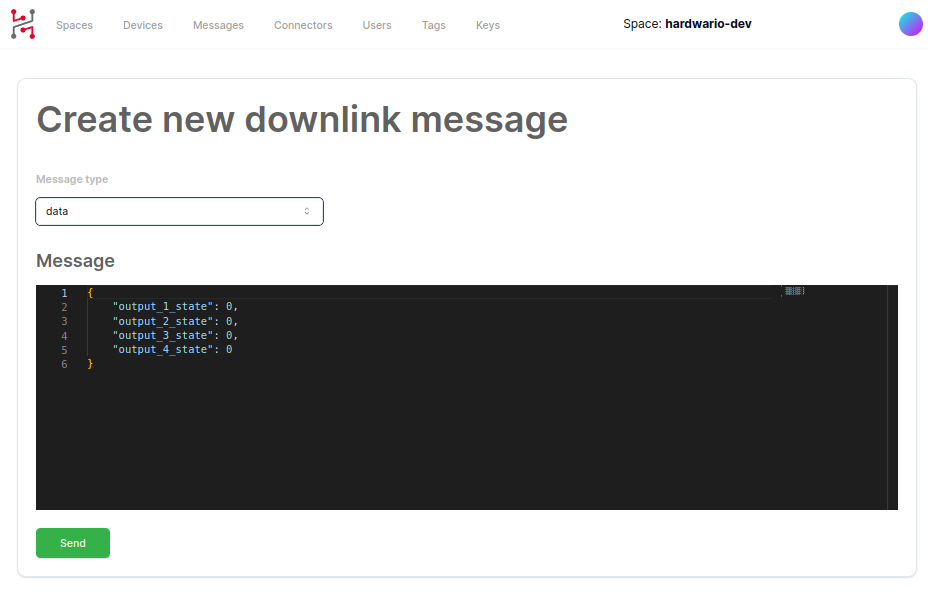
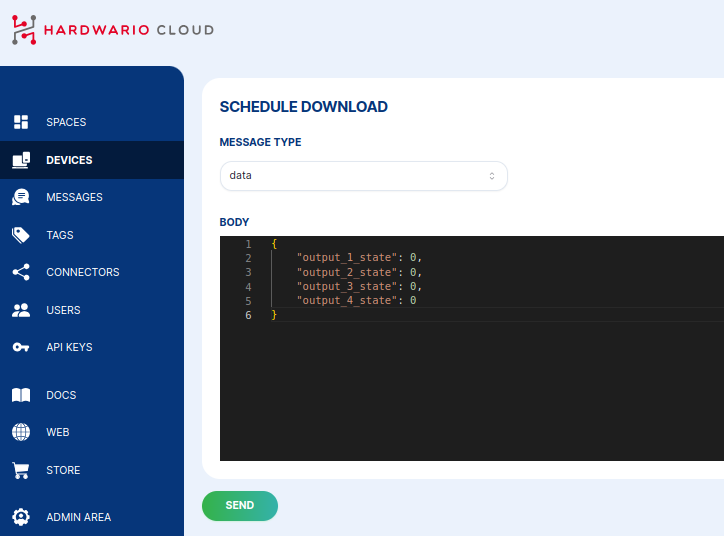
Cloud: Update docs, screenshots, FOTA

diff --git a/sidebars-cloud.js b/sidebars-cloud.js
@@ -11,7 +11,10 @@ const sidebars = {
         id: 'cloud-v2/index',
       },
       collapsed: true,
-      items: ['cloud-v2/connectors', 'cloud-v2/downlink', 'cloud-v2/api']
+      items: [
+        'cloud-v2/devices', 'cloud-v2/connectors', 'cloud-v2/downlink',
+        'cloud-v2/fota', 'cloud-v2/api'
+      ]
     }
   ],
 };

diff --git a/cloud/cloud-v2/connectors.md b/cloud/cloud-v2/connectors.md
@@ -6,7 +6,7 @@ import Image from '@theme/IdealImage';
 
 # Connectors
 
-With a connector, you can create a webhook on the messages from the device.
+With a connector, you can create a webhook on the messages from the device. Device with the **same tag as the connector** will trigger single, or multiple connectors.
 
 You can set which type of uplink messages the webhook will be called:
 - data
@@ -15,7 +15,17 @@ You can set which type of uplink messages the webhook will be called:
 - stats
 - codec
 
+Tags are important. They connect a device or multiple devices to the connector.
+
 ![](connector-new.png)
+
+You can create a function, that will transform every message. It can act as a translator between CHESTER JSON data representation and your integration service.
+
+![](connector-transformation.png)
+
+In the connector preview tab, you can select one of the latest messages and in real-time see, how the transformation works.
+
+![](connector-preview.png)
 
 ## JavaScript
 
@@ -27,56 +37,84 @@ function main(job) {
     "url": "https://best.app.ever/new-message",
     "method": "POST",
     "body": JSON.stringify(job),
-    "headers": { "Content-Type": "application/json" }
+    "header": { "Content-Type": "application/json" }
   }
 }
 ```
+
+If your function will return `null` object. The callback is not executed. This can be useful if you would like to have some notifications with third-party services that will send push-notification, e-mail or sms only when some parameter from the CHESTER device is above a certain threshold. You can use services like [**Twilio**](https://www.twilio.com/) or [**Sendgrid**](https://sendgrid.com/).
 
 ## Job object
 
 Here is the structure of the `job` object.
 
+The object `body.message.body` contains the JSON from the CHESTER with its data.
+
 ```json
 {
+  "url": "https://pipedream.net/",
+  "method": "POST",
+  "body": {
     "attempt": 0,
     "message": {
-        "id": "018b85a4-673f-7fc7-9742-8c73f8a8e7c8",
-        "body": "{\"accelerometer\":{\"accel_x\":0.61,\"accel_y\":9.72,\"accel_z\":0.07,\"orientation\":3},\"battery\":{\"current_load\":26,\"voltage_load\":2.65,\"voltage_rest\":2.8},\"frame\":{\"protocol\":3,\"sequence\":3,\"timestamp\":1698754222},\"network\":{\"parameter\":{\"band\":20,\"cid\":658209,\"earfcn\":6447,\"ecl\":0,\"eest\":7,\"plmn\":23003,\"rsrp\":-91,\"rsrq\":-5,\"snr\":10}},\"state\":{\"uptime\":86461},\"thermometer\":{\"temperature\":21.37}}",
-        "created_time": "2023-10-31T12:10:25.983Z",
-        "type": "data",
-        "link_type": "up"
+      "id": "018eebbe-678d-7c60-b4ef-d141f48378e8",
+      "body": {
+        "accelerometer": {
+          "accel_x": 0.22,
+          "accel_y": 9.8,
+          "accel_z": 0.15,
+          "orientation": 3
+        },
+        "battery": {
+          "current_load": 25,
+          "voltage_load": 2.5,
+          "voltage_rest": 2.64
+        },
+        "frame": {
+          "protocol": 3,
+          "sequence": 69,
+          "timestamp": 1713352118
+        },
+        "network": {
+          "parameter": {
+            "band": 20,
+            "cid": 658209,
+            "earfcn": 6447,
+            "ecl": 0,
+            "eest": 7,
+            "plmn": 23003,
+            "rsrp": -95,
+            "rsrq": -6,
+            "snr": 2
+          }
+        },
+        "thermometer": {
+          "temperature": 22.43
+        }
+      },
+      "created_at": "2024-04-17T11:08:27.917Z",
+      "type": "data",
+      "direction": "up"
     },
     "device": {
-        "id": "018a4535-fd39-7293-bd36-52df3e62e962",
-        "space_id": "018a44f6-27e3-7293-b7d2-c39d7b0d7cd2",
-        "serial_number": "2159020389",
-        "session_id": "",
-        "created_time": "2023-08-30T06:51:20.761Z"
+      "id": "018a1535-fd39-7293-bd36-52df3e62e962",
+      "space_id": "018a14f6-27e3-7293-b7d2-c39d7b0d7cd2",
+      "serial_number": "2159020389",
+      "session_id": 1712549305,
+      "created_at": "2023-08-30T06:51:20.761Z",
+      "label": {}
     },
     "connector": {
-        "id": "018aef7c-c122-7893-a07c-70dbc6ebbddc",
-        "timeout": 0
+      "id": "018aef7c-c122-7893-a07c-70dbc6ebbddc",
+      "timeout": 0
     }
+  },
+  "header": {
+    "Content-Type": "application/json"
+  }
 }
 ```
 
-### Body as a JSON
-
-If you would like to have `message.body` as a JSON object instead of string, use this connector script:
-
-```js
-function main(job) {
-			return {
-				"url": "https://best.app.ever/new-message",
-				"method" : "POST",
-				"body" : JSON.stringify({
-					"message": JSON.parse(job.message.body),
-					"device": job.device
-				}),
-				"headers" : { "Content-Type" : "application/json" }
-			}
-		}
-```
 
 ### Callback Debugging
 
@@ -84,5 +122,5 @@ For testing purposes, you can use one of the free services like [**requestinspec
 
 Another option is to use services that route public address to your localhost. For example [**ngrok.com**](https://ngrok.com/) where you can create also the fixed address for free.
 
-Also [**tailscale.com**](https://tailscale.com/) is an awesome free service to put all your devices to one private network even behind CG-NAT,
-and one of the functionality is also creatung a tunnel with `serve` or `funnel` commands.
+Also, [**tailscale.com**](https://tailscale.com/) is an awesome free service to put all your devices to one private network even behind CG-NAT,
+and one of the functionalities is also creating a tunnel with `serve` or `funnel` commands.

diff --git a/cloud/cloud-v2/api.md b/cloud/cloud-v2/api.md
@@ -20,75 +20,67 @@ This example logs in to the Cloud v2 production portal (`api.prod.hardwario.clou
 
 
 ```python
+#!/usr/bin/env python3
+
 import requests
 
-email='...'
-password='...'
-space_name = '...'
+email = ''
+password = ''
+space_id = ''
 
 base_url = 'https://api.prod.hardwario.cloud'
 
 # Login
-resp = requests.post(base_url + '/v2/auth/login', json={ "email": email, "password": password})
-
-print(resp)
+resp = requests.post(base_url + '/v2/auth/login',
+                     json={"email": email, "password": password})
 
 if resp.status_code != 200:
-    raise Exception('Login failed: {}'.format(resp.text))
+    raise Exception('Login failed')
 
 authorization = 'Bearer ' + resp.json()['access_token']
 
-# Get space id
-resp = requests.get(base_url + '/v2/spaces', headers={ 'Authorization': authorization })
+print(authorization)
 
-for s in resp.json():
-    print(s['name'], s['type'], s['id'])
-    if s['name'] == space_name:
-        space_id = s['id']
-        break
+resp = requests.get(f'{base_url}/v2/space/{space_id}/devices',
+                    headers={'Authorization': authorization})
 
-resp = requests.post(base_url + '/v2/auth/space', json={ 'space_id': space_id },  headers={ 'Authorization': authorization })
+print(resp.status_code)
+
 if resp.status_code != 200:
-    raise Exception('Auth to space failed')
-
-authorization_personal_space = 'Bearer ' + resp.json()['access_token']
-
-# Get list of devices
-resp = requests.get(base_url + '/v2/devices', headers={ 'Authorization': authorization_personal_space })
-
-if resp.status_code != 201:
-    raise Exception('Device get failed:' + resp.text)
+    raise Exception('Device read failed:' + resp.text)
 
 print(resp.json())
 ```
 
 ### Create devices
 
-
 ```python
 
 # Copy the log-in from the first example code
 
 # Create device from list in space
+
 devices = [
     {
         "name": "dev-001",
         "serial_number": "2112345678",
-        "token": "hie1koh5toh0ga6iedoJ1hahshohmoh5"
+        "token": "hie1koh5toh0ga6iedoJ1hahshohmoh7"
     },
     {
         "name": "dev-002",
         "serial_number": "2112345679",
-        "token": "hie1koh5toh0ga6iedoJ1hahshohmoha",
-        "tags": [ {"id": "5f6b5b4e-3b4c-4c4c-8c8c-8c8c8c8c8c8c"} ],
+        "token": "hie1koh5toh0ga6iedoJ1hahshohmoh7",
+        "tags": [{"id": "5f6b5b4e-3b4c-4c4c-8c8c-8c8c8c8c8c8c"}],
         "external_id": "1234567890"
     }
 ]
 
 for device in devices:
-    resp = requests.post(base_url + '/v2/devices', json=device, headers={ 'Authorization': authorization_personal_space })
+    resp = requests.post(f'{base_url}/v2/space/{space_id}/devices', json=device,
+                         headers={'Authorization': authorization})
 
     if resp.status_code != 201:
         raise Exception('Device create failed:' + resp.text)
+
     print(resp.json())
 ```

diff --git a/cloud/cloud-v2/fota.md b/cloud/cloud-v2/fota.md
@@ -1,0 +1,29 @@
+---
+slug: fota
+title: FOTA
+---
+import Image from '@theme/IdealImage';
+
+# Firmware Over The Air updates (FOTA)
+
+You can also update firmware in your CHESTER.
+
+First you need to build and deploy a firmware to our cloud using `hardwario chester app fw upload` command. Please see the [**CHESTER Deploy**](../../chester/firmware-sdk/build-and-deploy#deploy) and [**Firmware Upload**](../../chester/firmware-sdk/build-and-deploy#firmware-upload) chapters.
+
+After you obtain the unique firmware ID like af637aa1c5b842c18f9b10b070cb0292 (newer ones have hyphens), you can click in the device's detail in the **Firmware** tab on the **+ DOWNLOAD FIRMWARE** button and paste the unique value there.
+
+![](fota-download-firmware.png)
+
+Once the CHESTER boots, send or polls for cloud data, it will start updating.
+
+The update takes around 30 minutes. During this time, the download to the CHESTER will run in the background, so the device will still function normally, measure and send the data.
+
+![](fota-list.png)
+
+In the detail, you can see all the steps during the update.
+
+![](fota-timeline.png)
+
+After the new firmware is downloaded, it is swapped between external SPI FLASH and internal MCU FLASH. This takes up to two minutes and the status LED on the CHESTER will blink with green/yellow/red colors. After swapping the CHESTER connects to the HARDWARIO Cloud with the new firmware. This new firmware is validated as _healthy_ and it is confirmed to the cloud that the update finished sucessfully.
+
+The MCUBoot bootloader has a protection, that in case the new firmware don't works correctly, it is swapped to the old version and device connects with the previous old firmware.

diff --git a/cloud/cloud-v2/downlink.md b/cloud/cloud-v2/downlink.md
@@ -10,19 +10,29 @@ In the web interface or over API you can send downlink messages:
 
 - Data
 - Config
-- Shell Commands (in the future)
+- Shell Commands
 
-If you would like to send config or data from the web interface. Go to the device messages, in the top right corner click on **Create new downlink message**.
+If you would like to send config or data from the web interface. Go to the device messages, in the top right corner click on **+&nbsp;SCHEDULE DOWNLINK**.
 
 ## Data
 
 You can send JSON commands that the device will decode and your code will receive structure with a filled data.
 
+![](downlink-data.png)
+
 ## Config
 
 You can configure the device the same way as you configure it over BLE or J-Link RTT. Just send for example `app config interval-report 600` command and CHESTER will apply the new configuration when it sends an uplink packet or polls for the new data.
 
-![](downlink-data.png)
+## Shell Commands
+
+In the messages or device detail, you can click on the **shell** icon and the shell console will open.
+
+![](shell-icon.png)
+
+In the console, you can enter **single or multiple commands** that will be executed next time **CHESTER** will boot, send data or poll to the cloud. After that you will receive the **response of every message** and the response appears in the console. You don't need to keep the console window open. You can schedule commands and return later or the next day to see the results.
+
+![](shell-console.png)
 
 ## API Examples
 

diff --git a/cloud/cloud-v2/devices.md b/cloud/cloud-v2/devices.md
@@ -1,0 +1,35 @@
+---
+slug: devices
+title: Devices
+---
+import Image from '@theme/IdealImage';
+
+# Devices
+
+In your space, you add your own devices.
+
+## Create a Device
+
+Click on the **+&nbsp;NEW DEVICE** button in the top right corner and create a new device.
+
+![](device-create.png)
+
+:::tip
+
+Tags are used to connect a group of devices to the connector. So also create at least a single tag and assign it to the **Device** and **Connector** later.
+
+:::
+
+
+### QR Code Scan
+
+You can also use **SCAN DEVICE** button in the bottom of the **CREATE NEW DEVICE** dialog and use the phone or computer camera to scan the device QR Code. The HSN and Claim token is filled from the code.
+
+### Manually
+
+You can add a device manually by filling:
+
+- Name
+- HARDWARIO Serial number (HSN)
+- Claim token (unique for each device, scan QR code on the device with any QR code reader, or use `info show` in the device connected over J-Link)
+

diff --git a/cloud/cloud-v2/index.md b/cloud/cloud-v2/index.md
@@ -38,11 +38,3 @@ Tags are useful for organizing similar devices together, or you can create a cal
 ### Labels
 
 Labels are key-value information you can put on every device. Labels are also passed to the callback, so your callback can react to specific labels on that device.
-
-## Connectors
-
-Please see the [**Connectors**](connectors) article.
-
-## API Keys
-
-You can define multiple API keys that allow you to automate all the functions over [**API**](https://api.prod.hardwario.cloud/v2/documentation/index.html)
